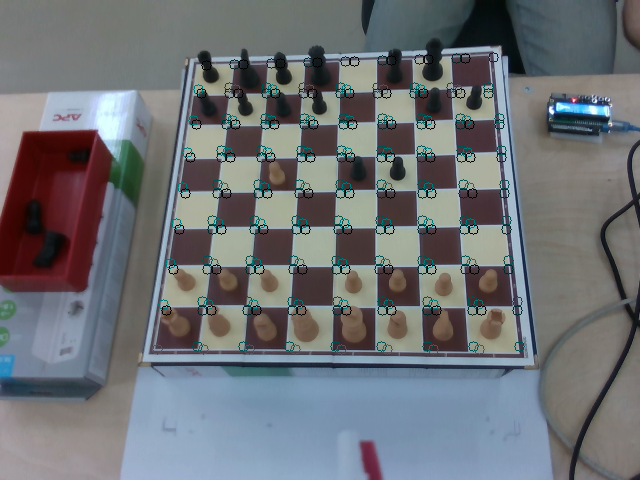
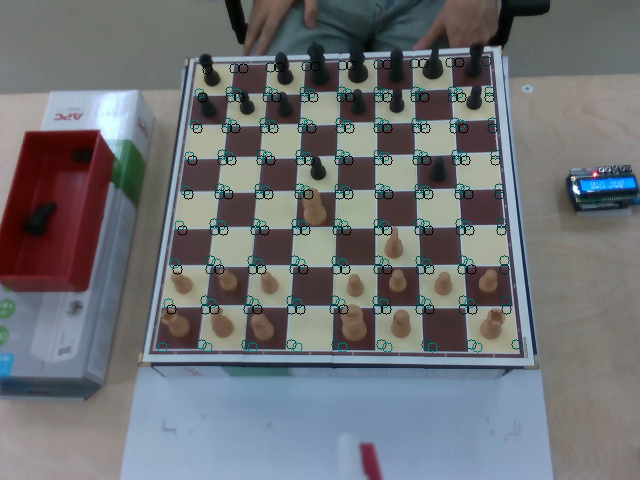
coordinate fix

diff --git a/src/chessmate/src/chessmate.cpp b/src/chessmate/src/chessmate.cpp
@@ -4,7 +4,7 @@
 
 #include "chessmate/helper.hpp"
 #include "chessmate_helpers.h"
-
+#include <stdlib.h>
 // messages
 #include "chessmate/pose.h"
 
@@ -70,7 +70,7 @@ const float BOARD_PLACE_HEIGHT = 0.290;
 const float DUMP_BOX_X = 0.55;
 const float DUMP_BOX_Y = 0.41;
 
-
+bool definitely_lose = false;
 
 /** get_HRI_trajectory():    
     returns HRI trajectory with respect to the game state
@@ -80,12 +80,11 @@ const float DUMP_BOX_Y = 0.41;
     @param hri_client HRI service client
     @return FollowJointTrajectoryGoal resulting trajectory
 */
-void get_HRI_trajectory(float game_status, bool breath, ros::ServiceClient& hri_client)
+void get_HRI_trajectory(std::string move, ros::ServiceClient& hri_client)
 {
     //call this function to get the trajectory
     franka_msgs::HRI hri_srv_request;
-    hri_srv_request.request.breathing = breath;
-    hri_srv_request.request.game_status = game_status;
+    hri_srv_request.request.move = move;
     
     bool resp;
     resp = hri_client.call(hri_srv_request);
@@ -99,15 +98,65 @@ void get_HRI_trajectory(float game_status, bool breath, ros::ServiceClient& hri_
    return;
 }
 
-float get_win_chance(ros::ServiceClient& chess_game_state_client)
+void random_hri_move(ros::ServiceClient& hri_client)
+{   
+    ROS_WARN_STREAM("RANDOM HRI MOVEMENT");
+
+    if(!definitely_lose)
+    {
+        int rnd = rand() % 3;
+        switch (rnd)
+        {
+        case 0:
+            get_HRI_trajectory("think", hri_client);
+            break;
+        case 1:
+            get_HRI_trajectory("positive", hri_client);
+            break;
+        case 2:
+            get_HRI_trajectory("hesitation", hri_client);
+            break;
+        default:
+            break;
+        }  
+    }
+    else
+    {
+        int rnd = rand() % 4;
+        switch (rnd)
+        {
+        case 0:
+            get_HRI_trajectory("think", hri_client);
+            break;
+        case 1:
+            get_HRI_trajectory("positive", hri_client);
+            break;
+        case 2:
+            get_HRI_trajectory("hesitation", hri_client);
+            break;
+        case 3:
+            get_HRI_trajectory("mock", hri_client);
+            break;
+        default:
+            break;
+        }  
+    }
+    
+}
+
+int get_lose_chance(ros::ServiceClient& chess_game_state_client)
 {
     chessmate::chess_game_state chess_game_state;
     bool resp;
     resp = chess_game_state_client.call(chess_game_state);
 
     std::cout << "Game state service is returned " << resp << std::endl;
+    
+    std::cout << "win " << chess_game_state.response.win << std::endl;
+    std::cout << "draw " << chess_game_state.response.draw << std::endl;
+    std::cout << "lose " << chess_game_state.response.lose << std::endl;
 
-    return ((float)chess_game_state.response.win / 1000.0f);
+    return chess_game_state.response.lose;
 }
 
 int main(int argc, char** argv){
@@ -172,7 +221,8 @@ int main(int argc, char** argv){
 
     ROS_INFO_STREAM("Main loop starting!");
     bool first_loop = true;
-    
+    float rec_opponent_win_prob = 0.5f;
+    int no_hri_counter = 0;
     // main control starts here!
     while(true){
         bool resp;
@@ -224,8 +274,13 @@ int main(int argc, char** argv){
         }
         if(first_loop)
         {
-            get_HRI_trajectory(0.6, false, hri_client);
-            first_loop = false;
+            /*while(true)
+            {
+                random_hri_move(hri_client);
+            }*/
+
+            get_HRI_trajectory("salut", hri_client);
+            first_loop = false;        
         }
 
 
@@ -266,7 +321,7 @@ int main(int argc, char** argv){
                 ros::Duration(ARDUINO_CHECK_SLEEP).sleep();
                 break;
             case OPPONENT_PLAY:
-                get_HRI_trajectory(0.0, true, hri_client);
+                get_HRI_trajectory("breath", hri_client);
                 break;
             case IDLE:
                 ros::Duration(ARDUINO_CHECK_SLEEP).sleep();
@@ -274,11 +329,17 @@ int main(int argc, char** argv){
                 
             case WIN:
                 /* code */
+                get_HRI_trajectory("win", hri_client);
+
                 ROS_ERROR_STREAM("You win!");
+                return 0;
                 break;
             case LOSS:
                 /* code */
+                get_HRI_trajectory("lose", hri_client);
+
                 ROS_ERROR_STREAM("You lose!");
+                return 0;
                 break;
             default:
                 break;
@@ -297,13 +358,14 @@ int main(int argc, char** argv){
         vision_srv_request.request.query_type = "side";
         resp = vision_client.call(vision_srv_request);
 
-
+        
         if(!resp){
             ROS_WARN_STREAM("Vision is not connected to system!");
             ros::Duration(1).sleep();
         } else{
             
             int return_code = vision_srv_request.response.return_code;
+            std::string rspns;
 
 
             switch (return_code) {
@@ -311,6 +373,12 @@ int main(int argc, char** argv){
                     ROS_WARN_STREAM("Side vision is successfull.");
                     movement_in_fen = vision_srv_request.response.movement_in_fen;
                     std::cout << "Detected movement is : " << movement_in_fen << std::endl;
+                    std::cout << "Please confirm y or n" << std::endl;
+                    std::cin >> rspns;
+                    if(rspns != "y")
+                    {
+                        movement_in_fen = "";
+                    }
                     break;
                 case SIDE_VISION_UNSUCCESS:
                     ROS_WARN_STREAM("Side vision is unsuccessfull.");
@@ -400,6 +468,8 @@ int main(int argc, char** argv){
         // If player cheats, do something.
         if (chess_opponent_move.response.fen_string == "cheat") {
             ROS_INFO_STREAM("Cheat detected. HRI do angry movement.");
+            get_HRI_trajectory("nod", hri_client);
+
             //auto trajectory = get_HRI_trajectory(0.0, false ,hri_client);
             //trajectory_request.request.trajGoal = trajectory;
             //trajectory_client.call(trajectory_request);
@@ -410,6 +480,8 @@ int main(int argc, char** argv){
 
         else if (chess_opponent_move.response.game_state == "lose") {
             ROS_INFO_STREAM("We lost the game. HRI do sad movement.");
+            get_HRI_trajectory("lose", hri_client);
+            return 0;
             // HRI will do something here.
         }
 
@@ -440,8 +512,32 @@ int main(int argc, char** argv){
         // Now, we have the best move, and we can do something with it!
         // Call the vision to get the coordinates of these!
         
-        ros::ServiceClient joint_client = n.serviceClient<franka_msgs::SetChessGoal>("/franka_go_chess");
-        franka_msgs::SetChessGoal joint_request;
+        //! HRI DECIDE MOVEMENT
+
+        int opponent_lose_prob = get_lose_chance(chess_game_state_client);
+
+        if(opponent_lose_prob > 900 && !definitely_lose)
+        {
+            definitely_lose = true;
+            get_HRI_trajectory("mock",hri_client);
+        }
+        else
+        {
+            if(no_hri_counter == 1)
+            {
+                random_hri_move(hri_client);
+                no_hri_counter = 0;
+            }
+            else
+            {
+                no_hri_counter++;
+            }
+        }
+
+        
+
+
+        //!-----------------------
         
         // go to above of take piece 
         //joint_request.request.chess_place = take_place_square + "above";
@@ -670,7 +766,9 @@ int main(int argc, char** argv){
         // Firstly, check whether we won the game or not.
         if (chess_next_move.response.game_state == "win") {
             ROS_INFO_STREAM("We won the game. HRI do happy movement.");
-            break;
+            get_HRI_trajectory("win", hri_client);
+            return 0;
+            
             // HRI will do something here.
         }
 

diff --git a/src/chessmate/scripts/vision/coordinate.py b/src/chessmate/scripts/vision/coordinate.py
@@ -6,23 +6,29 @@ from math import cos,sin,sqrt,pi
 
 class Coordinate():
 
-    def __init__(self, a8_x_coordinate, a8_y_coordinate,h1_x_coordinate,h1_y_coordinate):
+    def __init__(self, a1_x_coordinate, a1_y_coordinate, a8_x_coordinate, a8_y_coordinate,h1_x_coordinate,h1_y_coordinate, h8_x_coordinate,h8_y_coordinate):
         self.a8_x_coordinate = a8_x_coordinate
         self.a8_y_coordinate = a8_y_coordinate
         self.h1_x_coordinate = h1_x_coordinate
         self.h1_y_coordinate = h1_y_coordinate
-        self.diagonal_x = self.h1_x_coordinate - self.a8_x_coordinate
-        self.diagonal_y = self.h1_y_coordinate - self.a8_y_coordinate
-        self.edge_length = sqrt(self.diagonal_y**2 + self.diagonal_x**2)/ sqrt(2)
-        self.square_length = self.edge_length / 7
-        self.a1_x_coordinate = a8_x_coordinate + ((self.diagonal_x * cos(pi / 4) - self.diagonal_y * sin(pi / 4)) / (self.edge_length * sqrt(2))) * self.edge_length
-        self.a1_y_coordinate = a8_y_coordinate + ((self.diagonal_x * sin(pi / 4) + self.diagonal_y * cos(pi / 4)) / (self.edge_length * sqrt(2))) * self.edge_length
-        self.h8_x_coordinate = a8_x_coordinate + ((self.diagonal_x * cos(- pi / 4) - self.diagonal_y * sin(- pi / 4)) / (self.edge_length * sqrt(2))) * self.edge_length
-        self.h8_y_coordinate = a8_y_coordinate + ((self.diagonal_x * sin(- pi / 4) + self.diagonal_y * cos(- pi / 4)) / (self.edge_length * sqrt(2))) * self.edge_length
+        self.a1_x_coordinate = a1_x_coordinate
+        self.a1_y_coordinate = a1_y_coordinate
+        self.h8_x_coordinate = h8_x_coordinate
+        self.h8_y_coordinate = h8_y_coordinate
+        #self.diagonal_x = self.h1_x_coordinate - self.a8_x_coordinate
+        #self.diagonal_y = self.h1_y_coordinate - self.a8_y_coordinate
+        #self.edge_length = sqrt(self.diagonal_y**2 + self.diagonal_x**2)/ sqrt(2)
+        #self.square_length = self.edge_length / 7
+        #self.a1_x_coordinate = a8_x_coordinate + ((self.diagonal_x * cos(pi / 4) - self.diagonal_y * sin(pi / 4)) / (self.edge_length * sqrt(2))) * self.edge_length
+        #self.a1_y_coordinate = a8_y_coordinate + ((self.diagonal_x * sin(pi / 4) + self.diagonal_y * cos(pi / 4)) / (self.edge_length * sqrt(2))) * self.edge_length
+        #self.h8_x_coordinate = a8_x_coordinate + ((self.diagonal_x * cos(- pi / 4) - self.diagonal_y * sin(- pi / 4)) / (self.edge_length * sqrt(2))) * self.edge_length
+        #self.h8_y_coordinate = a8_y_coordinate + ((self.diagonal_x * sin(- pi / 4) + self.diagonal_y * cos(- pi / 4)) / (self.edge_length * sqrt(2))) * self.edge_length
         self.number_decrease_x = (self.a1_x_coordinate - self.a8_x_coordinate) / 7
         self.number_decrease_y = (self.a1_y_coordinate - self.a8_y_coordinate) / 7
         self.letter_increase_x = (self.h8_x_coordinate - self.a8_x_coordinate) / 7
         self.letter_increase_y = (self.h8_y_coordinate - self.a8_y_coordinate) / 7
+        
+        
         self.get_square_coordinates()
 
 
@@ -57,8 +63,8 @@ class Coordinate():
         for i in range(8):
             for j in range(8):
                 coordinate_list = [0,0]
-                coordinate_list[0] = self.a8_x_coordinate + (self.letter_increase_x * i) + (self.number_decrease_x * j)
-                coordinate_list[1] = self.a8_y_coordinate + (self.letter_increase_y * i) + (self.number_decrease_y * j)
+                coordinate_list[0] = self.a8_x_coordinate + (self.letter_increase_x * j) + (self.number_decrease_x * i)
+                coordinate_list[1] = self.a8_y_coordinate + (self.letter_increase_y * j) + (self.number_decrease_y * i)
                 coordinates[self.get_square_as_string(i, j)] = coordinate_list
 
 

diff --git a/src/chessmate/src/go_square_test.cpp b/src/chessmate/src/go_square_test.cpp
@@ -31,6 +31,7 @@
 
 
 int main(int argc, char** argv){
+    bool resp;
 
     ros::init(argc, argv, "chessmate");
     ros::NodeHandle n;
@@ -51,27 +52,32 @@ int main(int argc, char** argv){
     ROS_INFO_STREAM("This test will move robot! Be careful!!");
     ROS_INFO_STREAM("Going to side vision position!!");
     ROS_INFO_STREAM("Give random input to start:");
-    int a;
+    std::string a = "";
+
     std::cin >> a;
+    
+    ROS_INFO_STREAM("Going to side vision position!!");
+
     resp = franka_go(go_client, 0, 0, 0, false, false, true, false);
     if (!resp) {
         ROS_WARN_STREAM("ERROR IN GOING TO INIT!");
-        return;
+        return 0;
     }
 
+    std::string dummy_place = "";
+    
     
     // main control starts here!
     while(true){
 
-        bool resp;
-        
-        std::string dummy_place;
         std::cout << "Enter a square to go: ";
         std::cin >> dummy_place;
+        
+        //getline(std::cin,dummy_place);
         float height;
         std::cout << "Enter a height: ";
         std::cin >> height;
-
+        
         chess_piece_position_request.request.from_piece = dummy_place;
         chess_piece_position_request.request.to_piece = dummy_place;
 

diff --git a/src/chessmate/scripts/vision/vision_bridge.py b/src/chessmate/scripts/vision/vision_bridge.py
@@ -10,10 +10,15 @@ from chessmate.srv import QueryVisionComponentResponse, QueryVisionComponent, ge
 from return_codes import *
 from functools import partial
 
-A8_X = 0.7180264563402445
-A8_Y = 0.21940773651391163
-H1_X = 0.3987680070603306
-H1_Y = -0.10025170642409935
+A1_X = 0.4014470920338918
+A1_Y = 0.22229826375982784
+A8_X = 0.7272811452210761
+A8_Y = 0.22010953155514001
+H1_X = 0.40305517526720513
+H1_Y = -0.09984058193422411
+H8_X = 0.7263877184058034
+H8_Y = -0.10278467775327396
+
 
 
 
@@ -31,9 +36,9 @@ def camera_release(camera):
 # Since the main loop is in C++, I need to make vision.py a ROS service
 if __name__ == "__main__":
     print("this is vision bridge")
-    coordinate_class = Coordinate(A8_X, A8_Y, H1_X, H1_Y)
+    coordinate_class = Coordinate(A1_X, A1_Y, A8_X, A8_Y, H1_X, H1_Y, H8_X, H8_Y)
 
-    # init ros node
+    # init ros node8
     rospy.init_node('vision_bridge')
 
     def getPieceCoordinates(req):

diff --git a/src/chessmate/scripts/vision/vision_calibration_parameters.py b/src/chessmate/scripts/vision/vision_calibration_parameters.py
@@ -1,7 +1,7 @@
-SIDE_VISION_TOP_LEFT = [200,63]
-SIDE_VISION_TOP_RIGHT = [496,54]
-SIDE_VISION_BOTTOM_RIGHT = [528,357]
-SIDE_VISION_BOTTOM_LEFT = [154,352]
+SIDE_VISION_TOP_LEFT = [201,67]
+SIDE_VISION_TOP_RIGHT = [491,58]
+SIDE_VISION_BOTTOM_RIGHT = [521,356]
+SIDE_VISION_BOTTOM_LEFT = [159,350]
 
 
 TOP_VISION_SQUARE_WIDTH = 45
